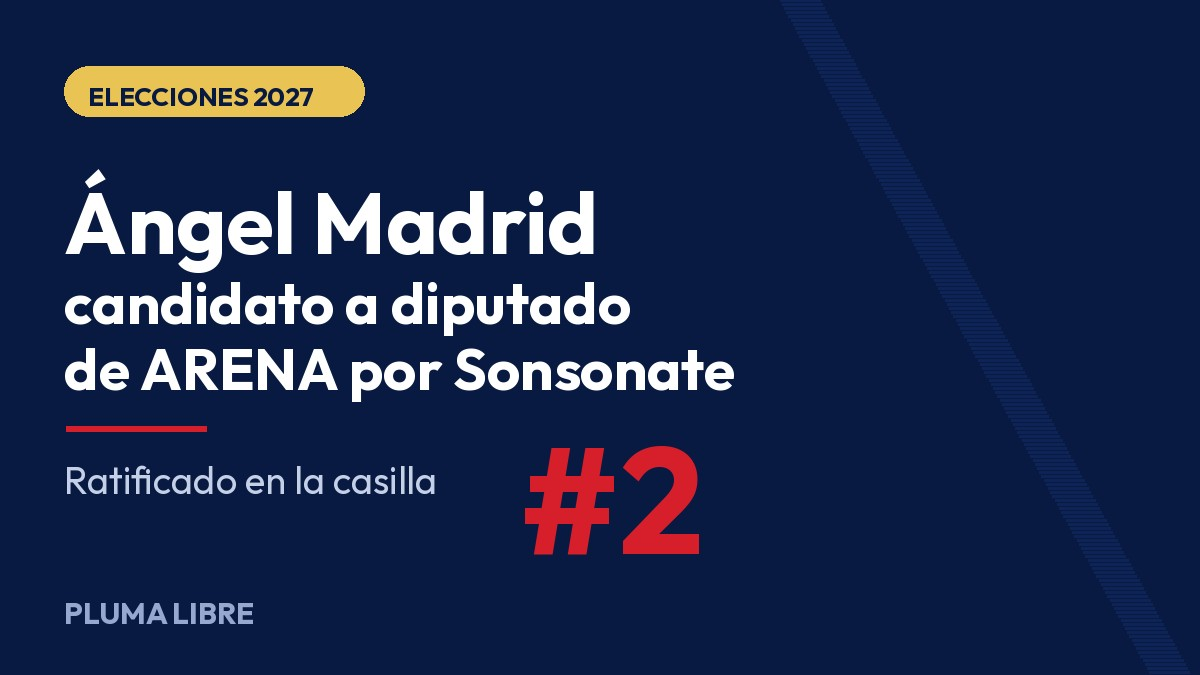
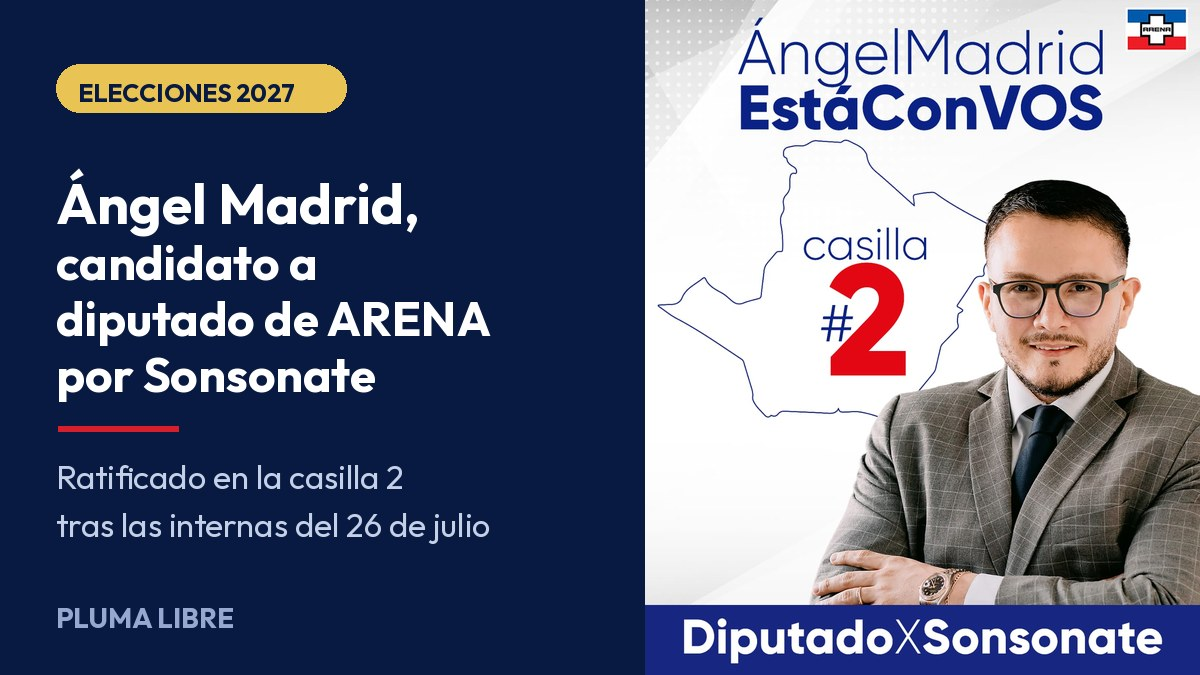
Nota Madrid: portada con el arte de campana real (casilla 2)
Se reemplaza la portada tipografica por la composicion Pluma Libre + arte
oficial del candidato, siguiendo el patron de la nota del 25-jul. Se agrega
el credito de imagen en el pie de foto.

Claude-Session: https://claude.ai/code/session_01KkC42CZv8ZK1hHpW6jybVt

diff --git a/articulos/angel-madrid-candidato-diputado-arena-casilla-2.html b/articulos/angel-madrid-candidato-diputado-arena-casilla-2.html
@@ -1,4 +1,4 @@
-<!DOCTYPE html><html lang="es"><head><meta charset="UTF-8"><meta name="viewport" content="width=device-width,initial-scale=1.0"><title>Ángel Madrid oficializa su candidatura a diputado por Sonsonate: irá en la casilla 2 de ARENA — Pluma Libre</title><meta name="description" content="El abogado sonsonateco fue ratificado por las bases tras las internas del 26 de julio y anunció una gira por colonias, cantones y caseríos del departamento."><meta name="theme-color" content="#081A41"><link rel="canonical" href="https://plumalibre.press/articulos/angel-madrid-candidato-diputado-arena-casilla-2.html"><meta property="og:type" content="article"><meta property="og:title" content="Ángel Madrid oficializa su candidatura a diputado por Sonsonate: irá en la casilla 2 de ARENA"><meta property="og:description" content="El abogado sonsonateco fue ratificado por las bases tras las internas del 26 de julio y anunció una gira por colonias, cantones y caseríos del departamento."><meta property="og:image" content="https://plumalibre.press/assets/nota-madrid-candidato-casilla2.jpg"><meta property="og:site_name" content="Pluma Libre"><meta property="article:published_time" content="2026-07-29"><script type="application/ld+json">{"@context":"https://schema.org","@type":"NewsArticle","headline":"Ángel Madrid oficializa su candidatura a diputado por Sonsonate: irá en la casilla 2 de ARENA","datePublished":"2026-07-29","author":{"@type":"Organization","name":"Pluma Libre"},"publisher":{"@type":"Organization","name":"Pluma Libre","logo":{"@type":"ImageObject","url":"https://plumalibre.press/assets/logo-simbolo.png"}}}</script><script>(function(){try{var p=new URLSearchParams(location.search);if(p.get("pl_no_track")==="1"){localStorage.setItem("pl_no_track","1");history.replaceState({},"",location.pathname+location.hash);}if(p.get("pl_track")==="1"){localStorage.removeItem("pl_no_track");history.replaceState({},"",location.pathname+location.hash);}if(localStorage.getItem("pl_no_track")==="1"){window["ga-disable-G-TZRTJLP5KT"]=true;}}catch(e){}})();</script><script async src="https://www.googletagmanager.com/gtag/js?id=G-TZRTJLP5KT"></script><script>window.dataLayer=window.dataLayer||[];function gtag(){dataLayer.push(arguments);}gtag("js",new Date());gtag("config","G-TZRTJLP5KT");</script><link rel="icon" href="../assets/favicon.ico" sizes="any"><link rel="icon" type="image/png" sizes="32x32" href="../assets/favicon-32x32.png"><link rel="icon" type="image/png" sizes="192x192" href="../assets/favicon-192x192.png"><link rel="apple-touch-icon" href="../assets/apple-touch-icon.png"><link rel="manifest" href="/manifest.webmanifest"><meta name="apple-mobile-web-app-capable" content="yes"><meta name="apple-mobile-web-app-status-bar-style" content="black-translucent"><meta name="apple-mobile-web-app-title" content="Pluma Libre"><meta name="mobile-web-app-capable" content="yes"><link rel="preconnect" href="https://fonts.googleapis.com"><link rel="preconnect" href="https://fonts.gstatic.com" crossorigin><link href="https://fonts.googleapis.com/css2?family=Newsreader:opsz,wght@6..72,400;6..72,600;6..72,700&family=Outfit:wght@400;500;600;700&display=swap" rel="stylesheet"><link rel="stylesheet" href="../style.css"></head><body class="article-page"><div class="top-bar"><div class="wrap"><span id="fecha"></span><a href="https://www.facebook.com/plumalibre.press/" target="_blank" rel="noopener" aria-label="Facebook"><svg width="14" height="14" fill="currentColor" viewBox="0 0 24 24"><path d="M24 12.073c0-6.627-5.373-12-12-12s-12 5.373-12 12c0 5.99 4.388 10.954 10.125 11.854v-8.385H7.078v-3.47h3.047V9.43c0-3.007 1.792-4.669 4.533-4.669 1.312 0 2.686.235 2.686.235v2.953H15.83c-1.491 0-1.956.925-1.956 1.874v2.25h3.328l-.532 3.47h-2.796v8.385C19.612 23.027 24 18.062 24 12.073z"/></svg></a></div></div><header class="header"><div class="wrap"><a href="../index.html" class="logo"><img src="../assets/logo-simbolo.png" alt="Pluma Libre" class="logo-simbolo" width="40" height="40"><div class="logo-text"><h1><img src="../assets/logo-wordmark.png" alt="PLUMA LIBRE" class="logo-wordmark"></h1></div></a><button class="menu-btn" id="menuBtn" aria-label="Menú"><span></span><span></span><span></span></button><nav class="nav" id="nav"><ul><li><a href="../index.html">Inicio</a></li><li><a href="../secciones/politico.html">Política</a></li><li><a href="../secciones/economico.html">Economía</a></li><li><a href="../secciones/deportivo.html">Deportes</a></li><li><a href="../secciones/social.html">Social</a></li><li><a href="../secciones/religioso.html">Religión</a></li><li><a href="../secciones/cultural.html">Cultura</a></li><li><a href="../secciones/internacional.html">Internacional</a></li><li><a href="../sobre-nosotros.html">Nosotros</a></li></ul></nav></div></header><main><div class="wrap"><div class="article-header"><span class="badge badge-brand">Política</span><h1>Ángel Madrid oficializa su candidatura a diputado por Sonsonate: irá en la casilla 2 de ARENA</h1><p class="subtitle">El abogado sonsonateco fue ratificado por las bases tras las internas del 26 de julio y anunció una gira por colonias, cantones y caseríos del departamento.</p><div class="article-meta"><strong>Por Pluma Libre</strong> · 29 de julio, 2026 · Sonsonate</div></div><figure class="article-img"><img src="../assets/nota-madrid-candidato-casilla2.jpg" alt="Ángel Madrid, candidato a diputado de ARENA por Sonsonate en la casilla 2" loading="eager"><figcaption>Madrid competirá por una diputación de Sonsonate en las elecciones del 28 de febrero de 2027.</figcaption></figure><div class="article-body"><p>El abogado sonsonateco <strong>Ángel Madrid</strong> oficializó su candidatura a diputado por el departamento de Sonsonate con la bandera de <strong>ARENA</strong>, luego de ser ratificado por las bases del partido en la <strong>casilla número 2</strong>. La confirmación llega tras las elecciones internas que el instituto político celebró el domingo 26 de julio en su sede de Izalco.</p>
+<!DOCTYPE html><html lang="es"><head><meta charset="UTF-8"><meta name="viewport" content="width=device-width,initial-scale=1.0"><title>Ángel Madrid oficializa su candidatura a diputado por Sonsonate: irá en la casilla 2 de ARENA — Pluma Libre</title><meta name="description" content="El abogado sonsonateco fue ratificado por las bases tras las internas del 26 de julio y anunció una gira por colonias, cantones y caseríos del departamento."><meta name="theme-color" content="#081A41"><link rel="canonical" href="https://plumalibre.press/articulos/angel-madrid-candidato-diputado-arena-casilla-2.html"><meta property="og:type" content="article"><meta property="og:title" content="Ángel Madrid oficializa su candidatura a diputado por Sonsonate: irá en la casilla 2 de ARENA"><meta property="og:description" content="El abogado sonsonateco fue ratificado por las bases tras las internas del 26 de julio y anunció una gira por colonias, cantones y caseríos del departamento."><meta property="og:image" content="https://plumalibre.press/assets/nota-madrid-candidato-casilla2.jpg"><meta property="og:site_name" content="Pluma Libre"><meta property="article:published_time" content="2026-07-29"><script type="application/ld+json">{"@context":"https://schema.org","@type":"NewsArticle","headline":"Ángel Madrid oficializa su candidatura a diputado por Sonsonate: irá en la casilla 2 de ARENA","datePublished":"2026-07-29","author":{"@type":"Organization","name":"Pluma Libre"},"publisher":{"@type":"Organization","name":"Pluma Libre","logo":{"@type":"ImageObject","url":"https://plumalibre.press/assets/logo-simbolo.png"}}}</script><script>(function(){try{var p=new URLSearchParams(location.search);if(p.get("pl_no_track")==="1"){localStorage.setItem("pl_no_track","1");history.replaceState({},"",location.pathname+location.hash);}if(p.get("pl_track")==="1"){localStorage.removeItem("pl_no_track");history.replaceState({},"",location.pathname+location.hash);}if(localStorage.getItem("pl_no_track")==="1"){window["ga-disable-G-TZRTJLP5KT"]=true;}}catch(e){}})();</script><script async src="https://www.googletagmanager.com/gtag/js?id=G-TZRTJLP5KT"></script><script>window.dataLayer=window.dataLayer||[];function gtag(){dataLayer.push(arguments);}gtag("js",new Date());gtag("config","G-TZRTJLP5KT");</script><link rel="icon" href="../assets/favicon.ico" sizes="any"><link rel="icon" type="image/png" sizes="32x32" href="../assets/favicon-32x32.png"><link rel="icon" type="image/png" sizes="192x192" href="../assets/favicon-192x192.png"><link rel="apple-touch-icon" href="../assets/apple-touch-icon.png"><link rel="manifest" href="/manifest.webmanifest"><meta name="apple-mobile-web-app-capable" content="yes"><meta name="apple-mobile-web-app-status-bar-style" content="black-translucent"><meta name="apple-mobile-web-app-title" content="Pluma Libre"><meta name="mobile-web-app-capable" content="yes"><link rel="preconnect" href="https://fonts.googleapis.com"><link rel="preconnect" href="https://fonts.gstatic.com" crossorigin><link href="https://fonts.googleapis.com/css2?family=Newsreader:opsz,wght@6..72,400;6..72,600;6..72,700&family=Outfit:wght@400;500;600;700&display=swap" rel="stylesheet"><link rel="stylesheet" href="../style.css"></head><body class="article-page"><div class="top-bar"><div class="wrap"><span id="fecha"></span><a href="https://www.facebook.com/plumalibre.press/" target="_blank" rel="noopener" aria-label="Facebook"><svg width="14" height="14" fill="currentColor" viewBox="0 0 24 24"><path d="M24 12.073c0-6.627-5.373-12-12-12s-12 5.373-12 12c0 5.99 4.388 10.954 10.125 11.854v-8.385H7.078v-3.47h3.047V9.43c0-3.007 1.792-4.669 4.533-4.669 1.312 0 2.686.235 2.686.235v2.953H15.83c-1.491 0-1.956.925-1.956 1.874v2.25h3.328l-.532 3.47h-2.796v8.385C19.612 23.027 24 18.062 24 12.073z"/></svg></a></div></div><header class="header"><div class="wrap"><a href="../index.html" class="logo"><img src="../assets/logo-simbolo.png" alt="Pluma Libre" class="logo-simbolo" width="40" height="40"><div class="logo-text"><h1><img src="../assets/logo-wordmark.png" alt="PLUMA LIBRE" class="logo-wordmark"></h1></div></a><button class="menu-btn" id="menuBtn" aria-label="Menú"><span></span><span></span><span></span></button><nav class="nav" id="nav"><ul><li><a href="../index.html">Inicio</a></li><li><a href="../secciones/politico.html">Política</a></li><li><a href="../secciones/economico.html">Economía</a></li><li><a href="../secciones/deportivo.html">Deportes</a></li><li><a href="../secciones/social.html">Social</a></li><li><a href="../secciones/religioso.html">Religión</a></li><li><a href="../secciones/cultural.html">Cultura</a></li><li><a href="../secciones/internacional.html">Internacional</a></li><li><a href="../sobre-nosotros.html">Nosotros</a></li></ul></nav></div></header><main><div class="wrap"><div class="article-header"><span class="badge badge-brand">Política</span><h1>Ángel Madrid oficializa su candidatura a diputado por Sonsonate: irá en la casilla 2 de ARENA</h1><p class="subtitle">El abogado sonsonateco fue ratificado por las bases tras las internas del 26 de julio y anunció una gira por colonias, cantones y caseríos del departamento.</p><div class="article-meta"><strong>Por Pluma Libre</strong> · 29 de julio, 2026 · Sonsonate</div></div><figure class="article-img"><img src="../assets/nota-madrid-candidato-casilla2.jpg" alt="Ángel Madrid, candidato a diputado de ARENA por Sonsonate en la casilla 2" loading="eager"><figcaption>Madrid competirá por una diputación de Sonsonate en las elecciones del 28 de febrero de 2027. Imagen: material de campaña del candidato.</figcaption></figure><div class="article-body"><p>El abogado sonsonateco <strong>Ángel Madrid</strong> oficializó su candidatura a diputado por el departamento de Sonsonate con la bandera de <strong>ARENA</strong>, luego de ser ratificado por las bases del partido en la <strong>casilla número 2</strong>. La confirmación llega tras las elecciones internas que el instituto político celebró el domingo 26 de julio en su sede de Izalco.</p>
 
 <p>Durante la campaña interna, Madrid había pedido el voto para la casilla 3. Tras el conteo, quedó ubicado en la segunda posición de la planilla con la que ARENA competirá en el departamento.</p>
 
